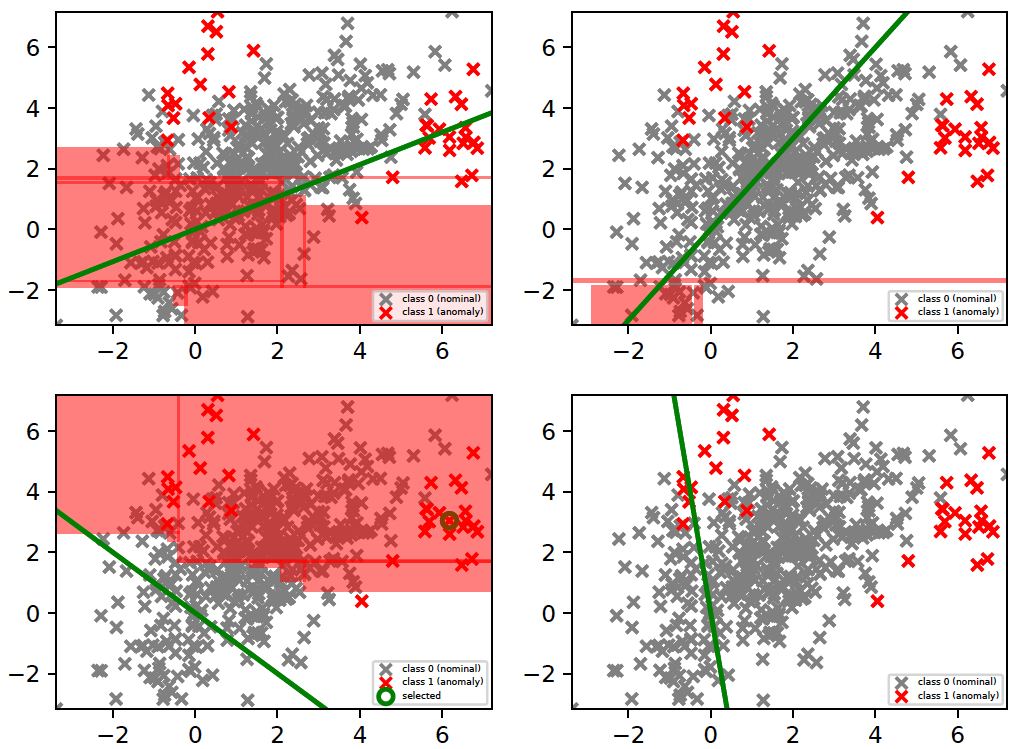
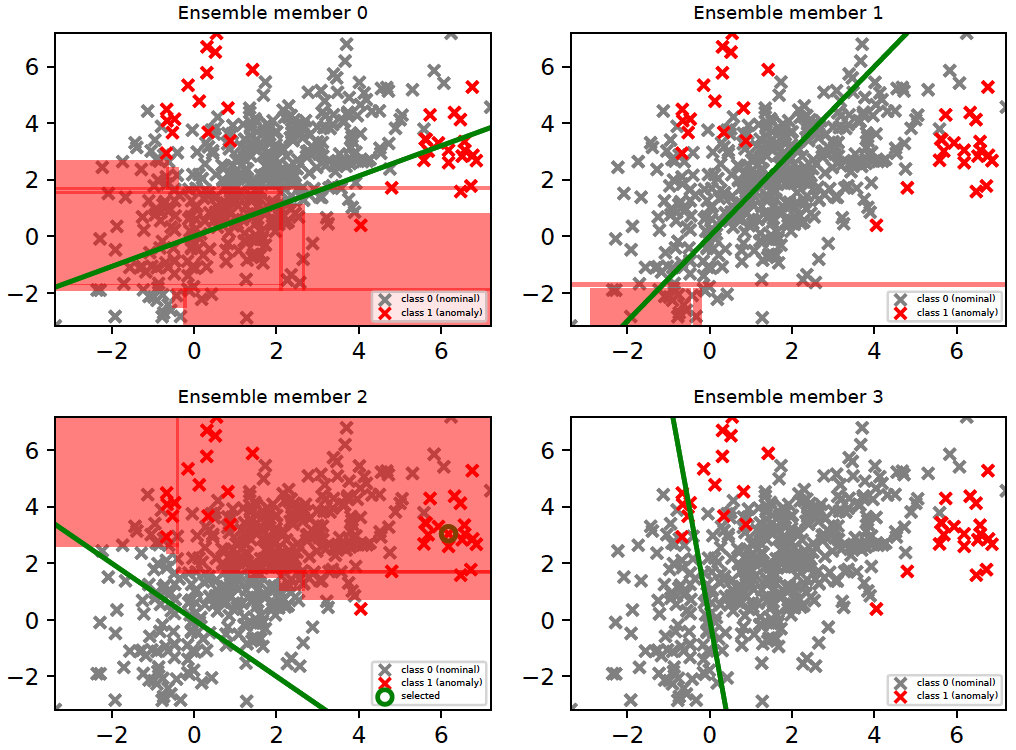
Explanations for GLAD

diff --git a/python/glad/glad_test_support.py b/python/glad/glad_test_support.py
@@ -166,6 +166,7 @@ def plot_glad_relevance_regions(x, y, ensemble, afss, selected=None,
             if len(sel_idxs) > 0:
                 sel_pts = selected[sel_idxs]
         pl = dp.get_next_plot()
+        plt.title("Ensemble member %d" % i, fontsize=8)
         cls_cols = {0: "grey", 1: "red"}
         # plot in order to set the x/y limits consistently
         plot_dataset(x, y, cls_cols, pl, selected=sel_pts,

diff --git a/README.md b/README.md
@@ -267,7 +267,7 @@ A comparison of **interpretable** rules found by *Compact Descriptions (CD)* and
   2. We set a minimum precision threshold (defaults to 0.4) for the rules selected. This removes noisy rules.
   3. Whenever a negative (nominal) example gets included within a region, we penalize it by the volume of the corresponding region. This encourages selection of regions with fewer false positives.
 
-We generate the rules by both techniques (*CD* and *BR*) at regular points in the feedback cycle and compute the F1 score on the entire dataset (top left plot below). These results were averaged over 10 independent runs. *CD* and *BR* are generally competitive. A decomposition of the F1 score shows that *CD* usually has a lower precision, but higher recall than *BR*. The bottom row shows that *CD* usually selects **simpler** rules (i.e., smaller length) than *BR* in order to describe the anomalies. The grey curve (bottom row middle, labeled 'Candidate Rules') is the total number of rules available in a feedback cycle. Both *CD* and *BR* use the same set of candidate rules. A slightly smaller subset of the candidate rules were selected by *BR* than *CD* to explain most anomalies.
+We generate the rules by both techniques (*CD* and *BR*) at regular points in the feedback cycle and compute the F1 score on the entire dataset (top left plot below). These results were averaged over 10 independent runs. *CD* and *BR* are generally competitive. A decomposition of the F1 score shows that *CD* usually has a lower precision, but higher recall than *BR*. The bottom row shows that *CD* usually selects **simpler** rules (i.e., smaller length) than *BR* in order to describe the anomalies. The grey curve (bottom row middle, labeled 'Candidate Rules') is the total number of rules available in a feedback cycle. Both *CD* and *BR* use the same set of candidate rules. A slightly smaller subset of the candidate rules were selected by *BR* than *CD* to describe most anomalies.
 
 **Important:** The results have been presented here only for the *toy2* dataset because we have used this as the running example. The results differ by the dataset, but the general patterns pointed out above seem to hold on the real-world datasets as shown in the document [all-rule_analysis.pdf](documentation/rules/all-rule_analysis.pdf).
 
@@ -291,7 +291,7 @@ Applications of compact descriptions
 ------------------------------------
 Compact descriptions (or Bayesian rulesets) have multiple uses including:
   - Discovery of diverse classes of anomalies very quickly by querying instances from different subspaces of the description
-  - Improved interpretability and explainability of anomalous instances
+  - Improved interpretability of anomalous instances
 
 We assume that in a practical setting, the analyst(s) will be presented with instances along with their corresponding description(s). Additional information can be derived from the descriptions and shown to the analyst such as the number of instances in each description, which can help prioritize the analysis. Unfortunately, most uses of descriptions are subjective or application dependent, and therefore, hard to evaluate. However, we can evaluate the improvement in query [diversity](#query-diversity-with-compact-descriptions) objectively as we do [below](#does-query-diversity-with-compact-descriptions-help).
 
@@ -387,7 +387,7 @@ The above strategy is intended to provide a set of interpretable rules for the r
 
     python -m glad.glad_batch --log_file=temp/glad/glad_batch.log --debug --dataset=toy2 --n_epochs=200 --budget=30 --loda_debug --plot --explain
 
-There are four members (LODA projections) and for each member, the relevant regions are shown in red. The last projection (lower right, having index 3) did not rank as the top-most relevant for any instance; hence, it does not have any region marked in red.
+There are four members (LODA projections) and for each member, the relevant regions are shown in red. The last member (member 3) did not rank as the top-most relevant for any instance; hence, it does not have any region marked in red. It is important to note that the **relevance of a detector is different from the anomaly score(s) it assigns**. A detector which is *relevant* in a particular subspace predicts the labels of instances in that subspace correctly irrespective of whether those instances are anomalies or nominals. For example, ensemble members 0 and 1 are relevant (in the figure below) in subspaces which have mostly nominal instances, i.e., they correctly predicted that instances in those subspaces are *nominal*. Members, which incorrectly predicted that instances in these subspaces were anomalies, lost relevance there.
 
 In order to dig deeper into the explanation for a test instance, we may take the following approach:
   1. Use AFSS to identify the most relevant ensemble member for the test instance.
